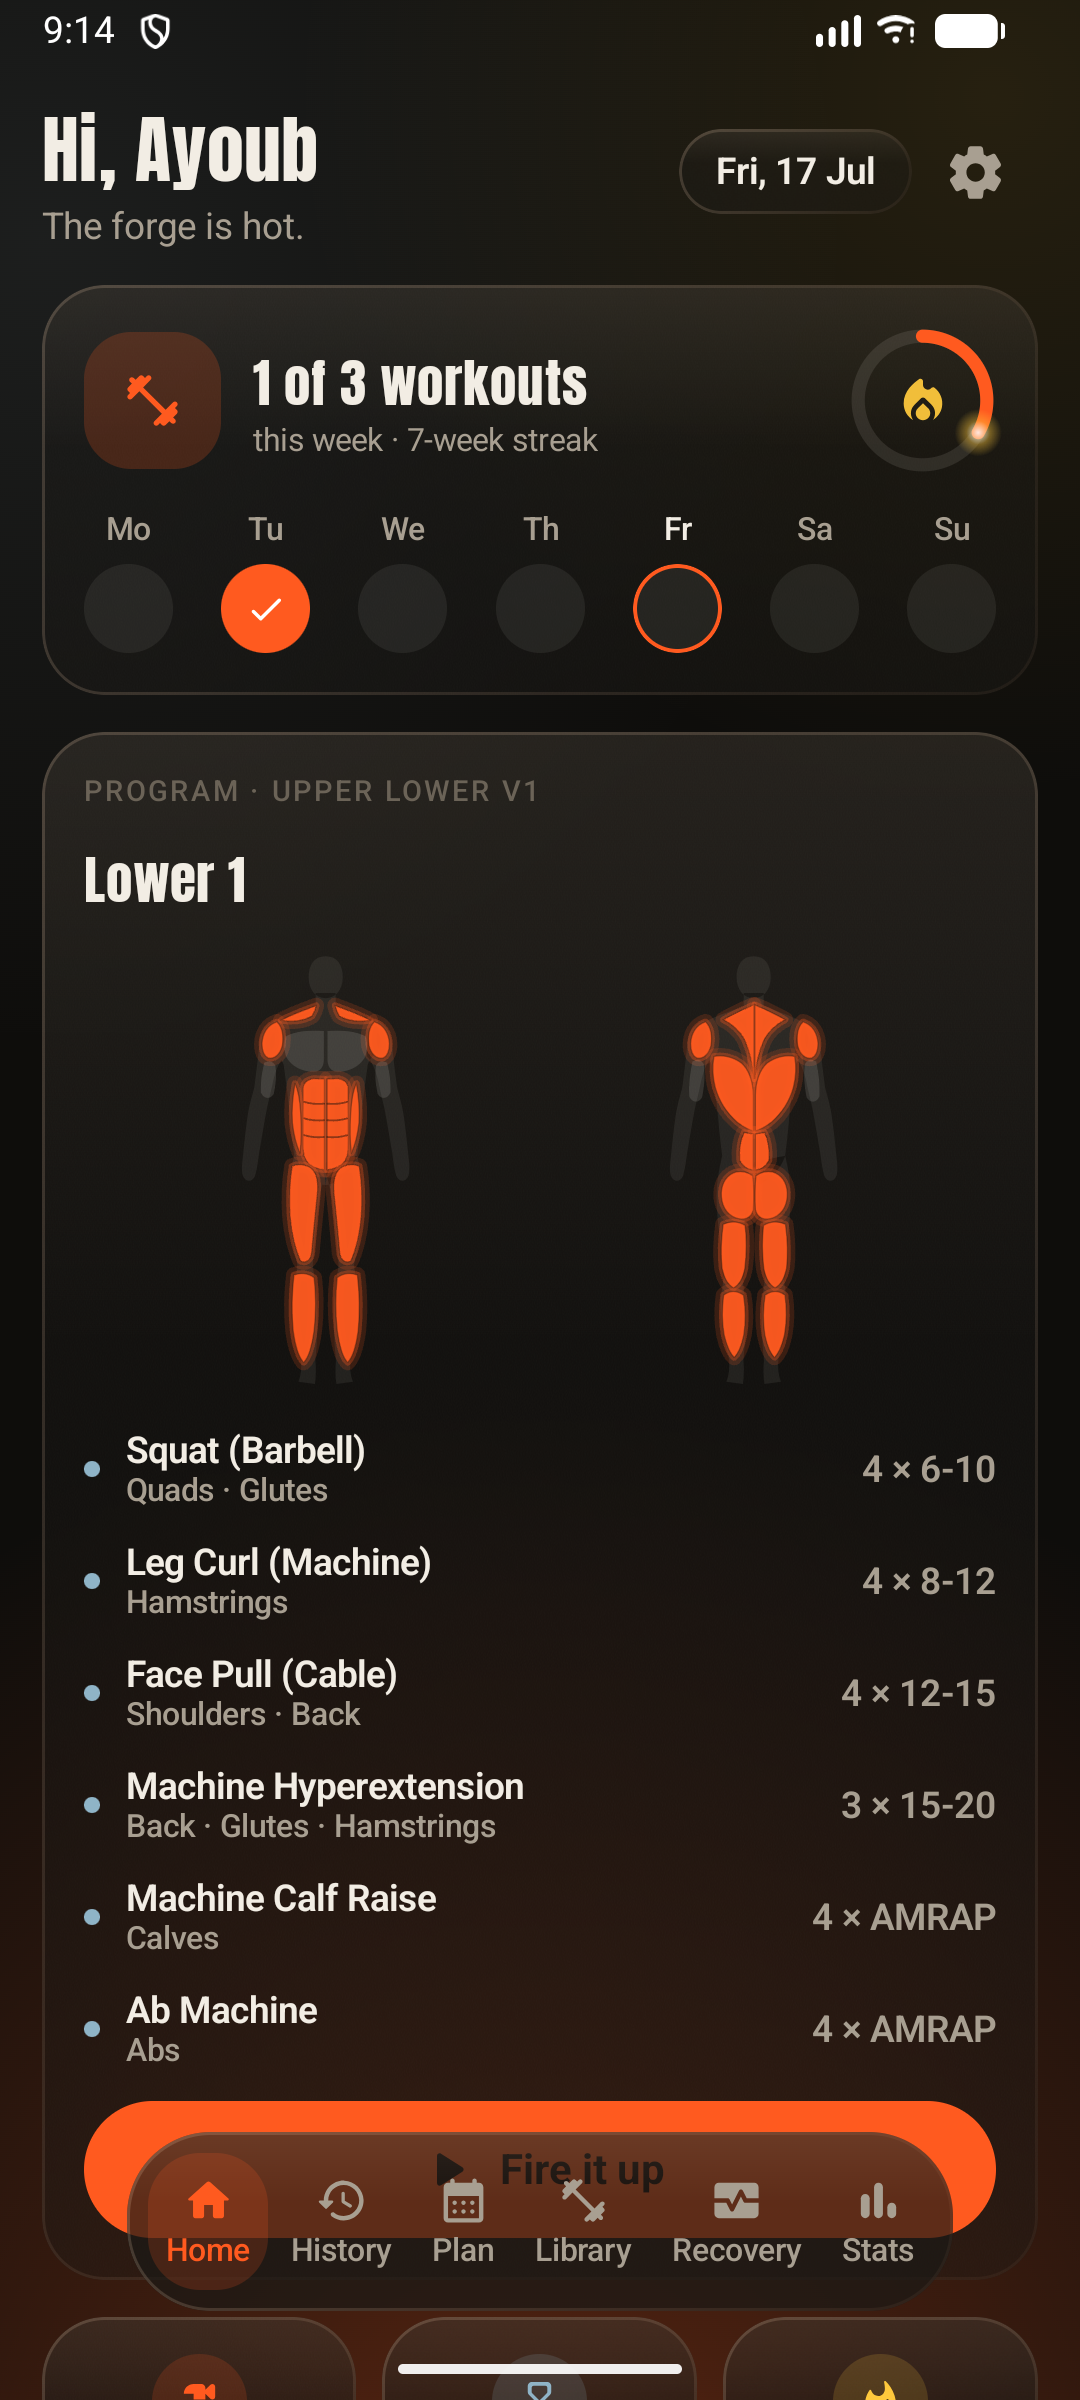
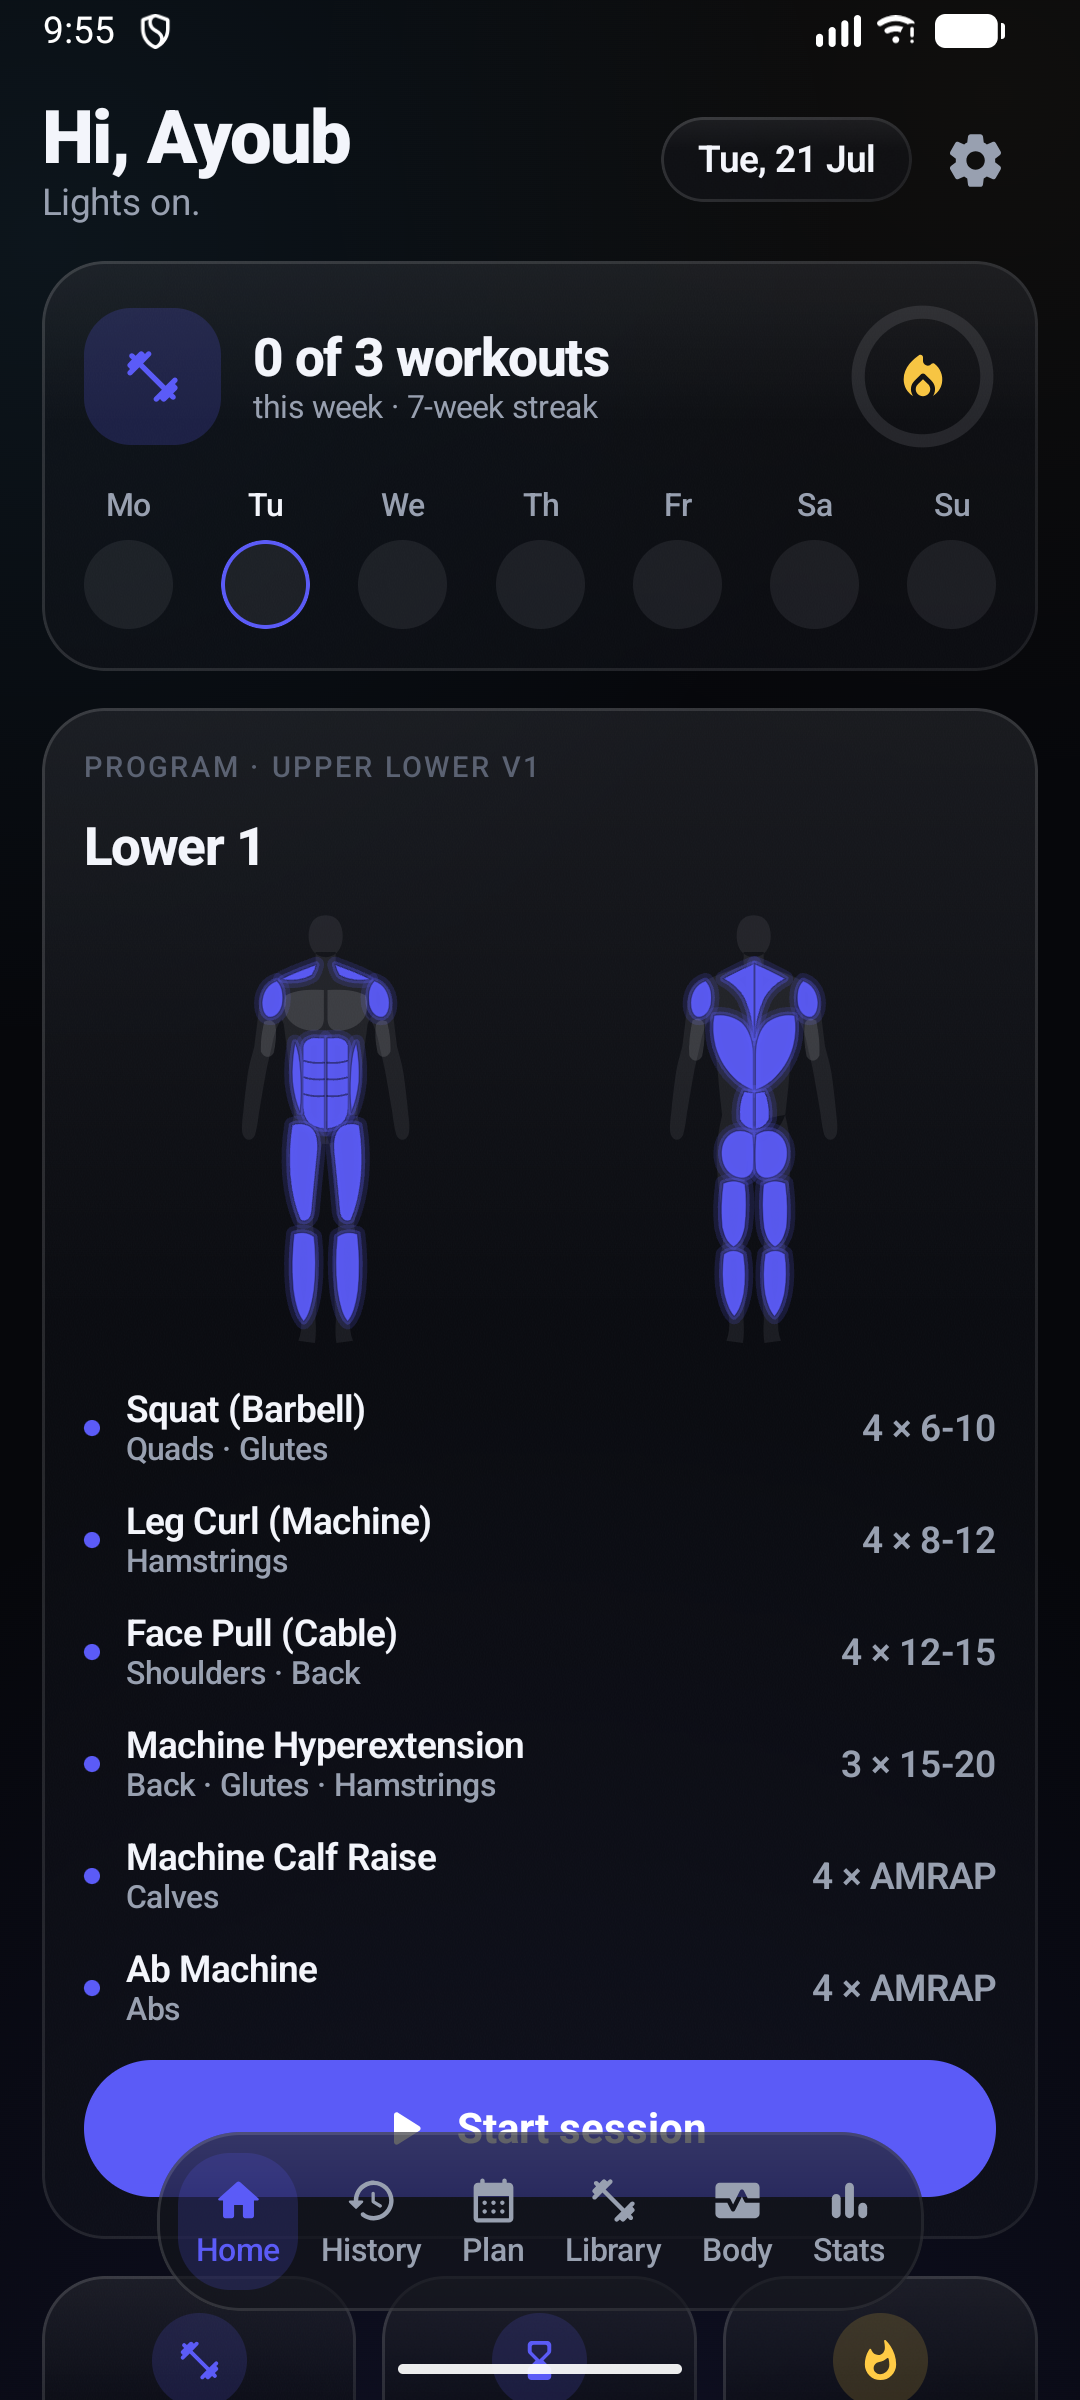
Blue Hour screens: Recovery→Body, indigo exercise hero + real screenshots
Structural moves on top of the identity flip, verified on-device (emulator install):
- Recovery renamed to "Body" (screen title + nav label; route id unchanged).
- ExerciseStatsScreen: Movo-style indigo gradient hero header with icon-in-circle,
  replacing the plain back-row title. Charts/badges already indigo via tokens.
- Regenerated screenshots from the running Blue Hour build (home/recovery/stats + new
  exercise detail), replacing the stale v7 green ones.

Confirmed live: Home target figure reads indigo (the plan colour — heat is reserved for
the Body screen), Stats rank card shows Gold on real data (1,897,443 kg, 602,557 to
Olympian), body READY→SPENT legend renders the full ember ramp.

diff --git a/android/app/src/main/java/com/gymtracker/ui/screens/stats/ExerciseStatsScreen.kt b/android/app/src/main/java/com/gymtracker/ui/screens/stats/ExerciseStatsScreen.kt
@@ -15,12 +15,15 @@ import androidx.compose.foundation.layout.fillMaxWidth
 import androidx.compose.foundation.layout.height
 import androidx.compose.foundation.layout.navigationBarsPadding
 import androidx.compose.foundation.layout.padding
+import androidx.compose.foundation.layout.size
 import androidx.compose.foundation.layout.statusBarsPadding
+import androidx.compose.foundation.layout.width
 import androidx.compose.foundation.rememberScrollState
 import androidx.compose.foundation.shape.RoundedCornerShape
 import androidx.compose.foundation.verticalScroll
 import androidx.compose.material.icons.Icons
 import androidx.compose.material.icons.automirrored.rounded.ArrowBack
+import androidx.compose.material.icons.rounded.FitnessCenter
 import androidx.compose.material3.Icon
 import androidx.compose.material3.IconButton
 import androidx.compose.material3.MaterialTheme
@@ -30,7 +33,9 @@ import androidx.compose.runtime.getValue
 import androidx.compose.ui.Alignment
 import androidx.compose.ui.Modifier
 import androidx.compose.ui.draw.clip
+import androidx.compose.ui.graphics.Brush
 import androidx.compose.ui.graphics.Color
+import androidx.compose.ui.graphics.lerp
 import androidx.compose.ui.unit.dp
 import androidx.lifecycle.compose.collectAsStateWithLifecycle
 import androidx.lifecycle.viewmodel.compose.viewModel
@@ -74,14 +79,60 @@ fun ExerciseStatsScreen(
                         tint = MaterialTheme.colorScheme.onSurfaceVariant,
                     )
                 }
-                Column {
-                    Text(state.name, style = MaterialTheme.typography.headlineMedium)
-                    if (state.muscles.isNotBlank()) {
-                        Text(
-                            text = state.muscles,
-                            style = MaterialTheme.typography.bodySmall,
-                            color = MaterialTheme.colorScheme.onSurfaceVariant,
+                Text(
+                    text = "EXERCISE",
+                    style = MaterialTheme.typography.labelSmall,
+                    color = GymTheme.colors.hint,
+                )
+            }
+
+            // Blue Hour indigo hero: the Movo exercise-detail header, on our tokens
+            Box(
+                Modifier
+                    .fillMaxWidth()
+                    .clip(RoundedCornerShape(24.dp))
+                    .background(
+                        Brush.linearGradient(
+                            listOf(
+                                MaterialTheme.colorScheme.primary,
+                                lerp(
+                                    MaterialTheme.colorScheme.primary,
+                                    MaterialTheme.colorScheme.primaryContainer,
+                                    0.72f,
+                                ),
+                            )
                         )
+                    )
+                    .padding(18.dp),
+            ) {
+                Row(verticalAlignment = Alignment.CenterVertically) {
+                    Box(
+                        Modifier
+                            .size(48.dp)
+                            .clip(RoundedCornerShape(16.dp))
+                            .background(MaterialTheme.colorScheme.onPrimary.copy(alpha = 0.16f)),
+                        contentAlignment = Alignment.Center,
+                    ) {
+                        Icon(
+                            Icons.Rounded.FitnessCenter,
+                            contentDescription = null,
+                            tint = MaterialTheme.colorScheme.onPrimary,
+                        )
+                    }
+                    Spacer(Modifier.width(14.dp))
+                    Column(Modifier.weight(1f)) {
+                        Text(
+                            text = state.name,
+                            style = MaterialTheme.typography.titleLarge,
+                            color = MaterialTheme.colorScheme.onPrimary,
+                        )
+                        if (state.muscles.isNotBlank()) {
+                            Text(
+                                text = state.muscles,
+                                style = MaterialTheme.typography.labelMedium,
+                                color = MaterialTheme.colorScheme.onPrimary.copy(alpha = 0.75f),
+                            )
+                        }
                     }
                 }
             }

diff --git a/android/app/src/main/java/com/gymtracker/ui/components/GlassBottomNav.kt b/android/app/src/main/java/com/gymtracker/ui/components/GlassBottomNav.kt
@@ -40,7 +40,7 @@ fun GlassBottomNav(
 ) {
     GlassSurface(modifier = modifier, shape = RoundedCornerShape(32.dp)) {
         Row(
-            // 6 tabs: tighter than the 5-tab layout so "Recovery" still fits a 412 dp phone
+            // 6 tabs on a 412 dp phone; short labels keep them comfortable
             Modifier.padding(horizontal = 8.dp, vertical = 8.dp),
             horizontalArrangement = Arrangement.spacedBy(2.dp),
         ) {
@@ -48,7 +48,7 @@ fun GlassBottomNav(
             NavItem("history", "History", Icons.Rounded.History, current, onSelect)
             NavItem("plan", "Plan", Icons.Rounded.CalendarMonth, current, onSelect)
             NavItem("library", "Library", Icons.Rounded.FitnessCenter, current, onSelect)
-            NavItem("recovery", "Recovery", Icons.Rounded.MonitorHeart, current, onSelect)
+            NavItem("recovery", "Body", Icons.Rounded.MonitorHeart, current, onSelect)
             NavItem("stats", "Stats", Icons.Rounded.BarChart, current, onSelect)
         }
     }

diff --git a/android/app/src/main/java/com/gymtracker/ui/screens/recovery/RecoveryScreen.kt b/android/app/src/main/java/com/gymtracker/ui/screens/recovery/RecoveryScreen.kt
@@ -63,7 +63,7 @@ fun RecoveryScreen(vm: RecoveryViewModel = viewModel()) {
                 .padding(horizontal = 16.dp, vertical = 12.dp),
             verticalArrangement = Arrangement.spacedBy(12.dp),
         ) {
-            Text("Recovery", style = MaterialTheme.typography.headlineLarge)
+            Text("Body", style = MaterialTheme.typography.headlineLarge)
             Text(
                 text = if (state.isSample) {
                     "Sample data — import your history or log workouts to see real freshness."
